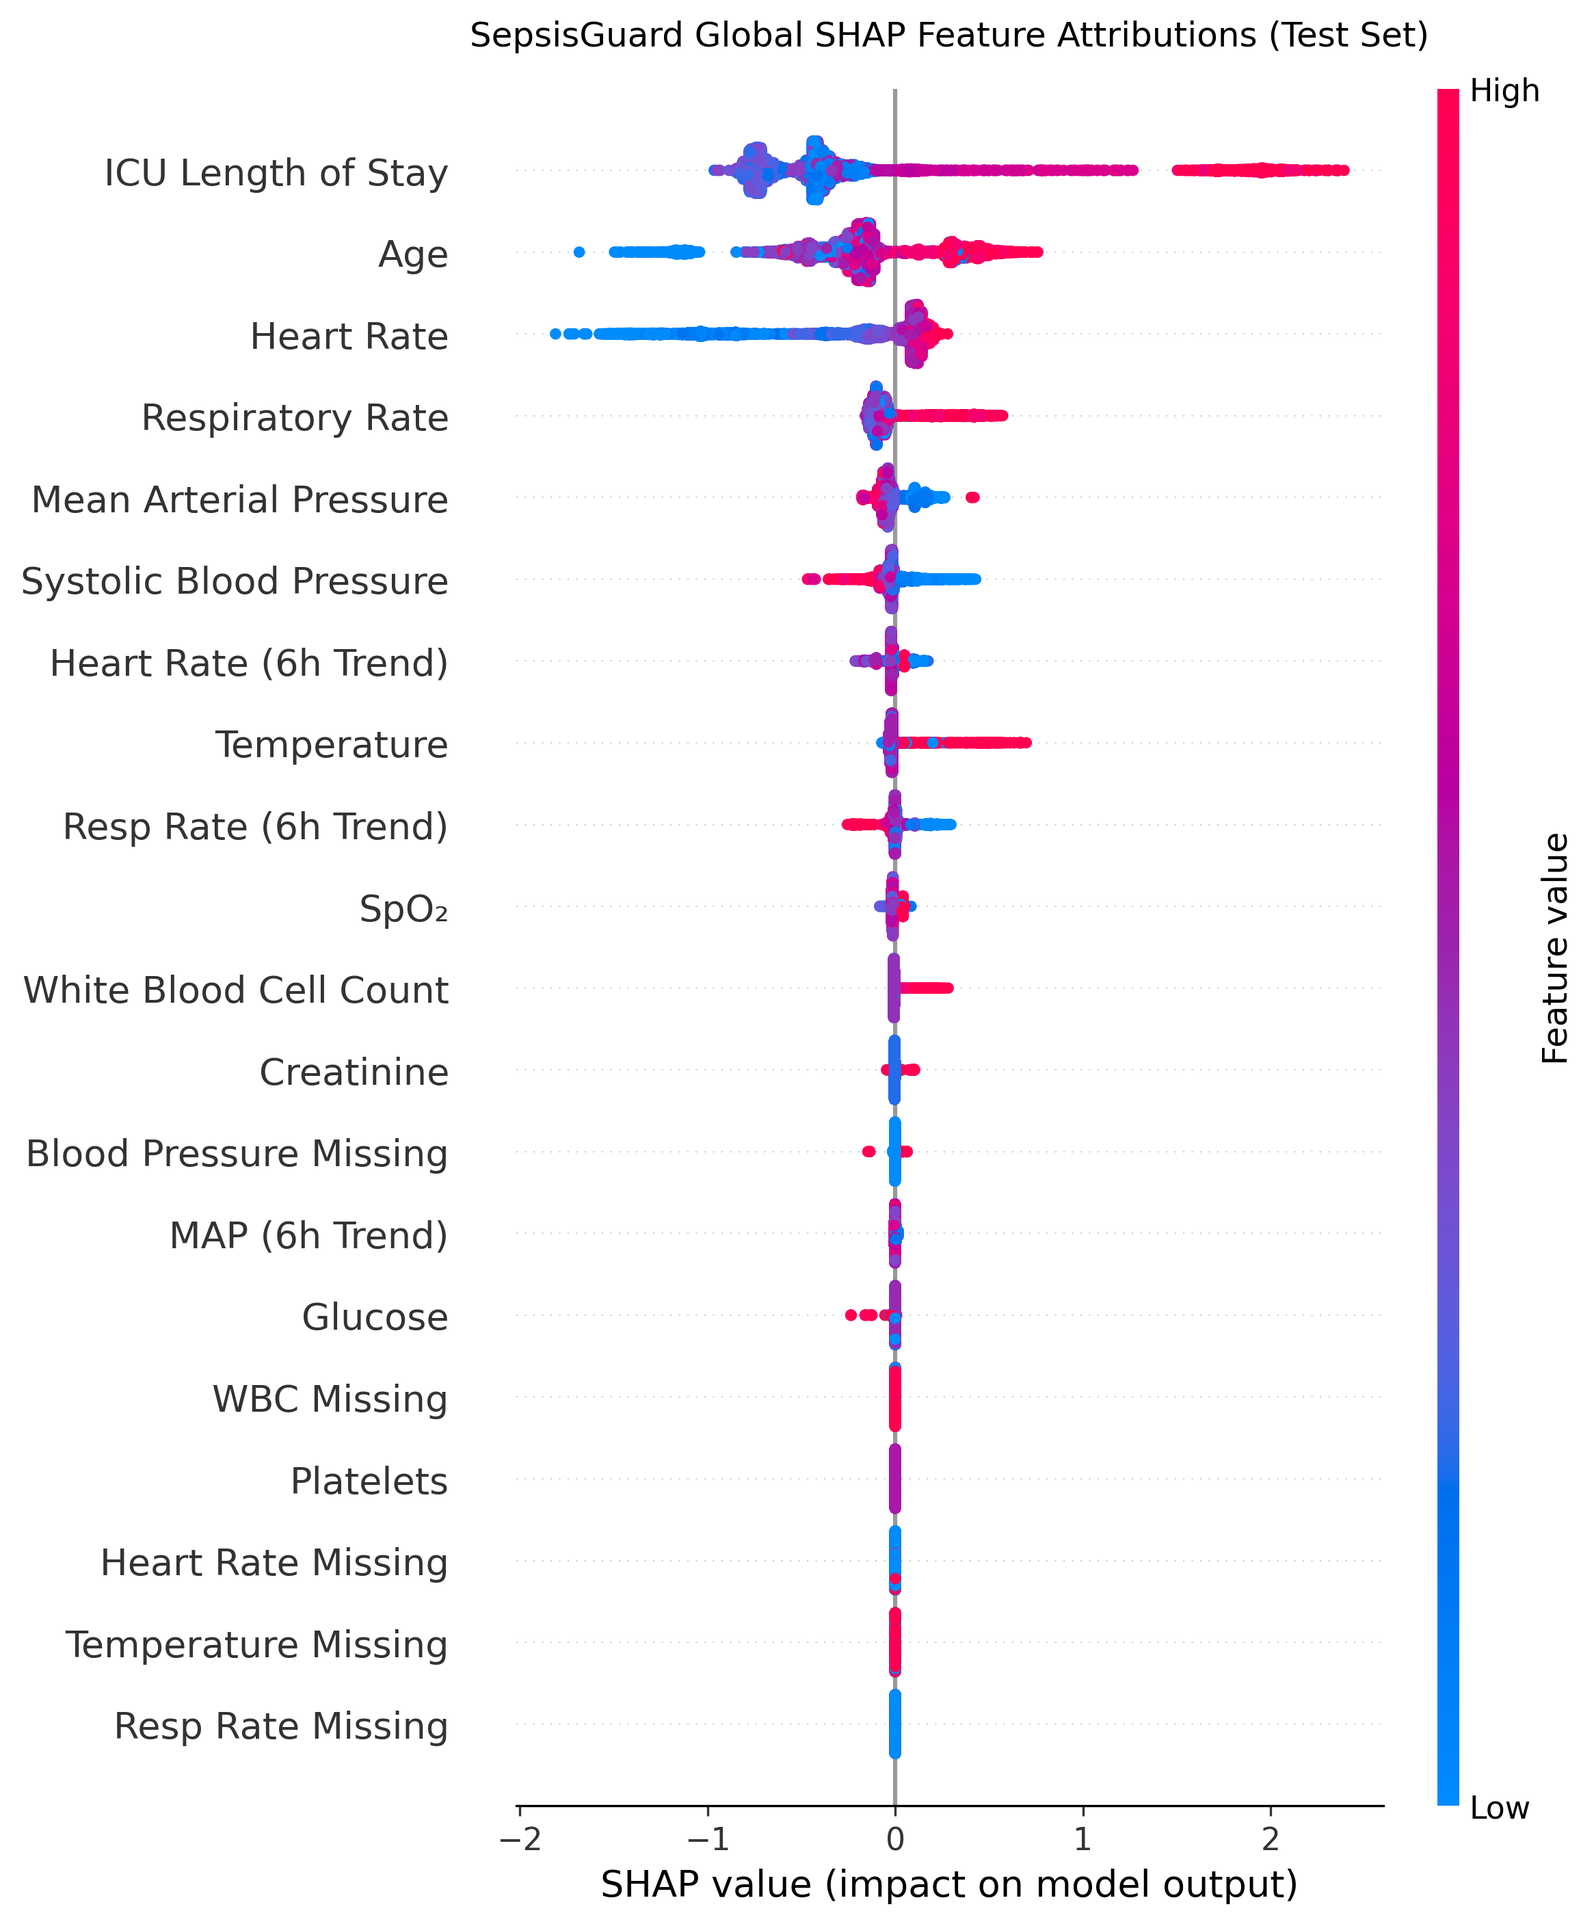
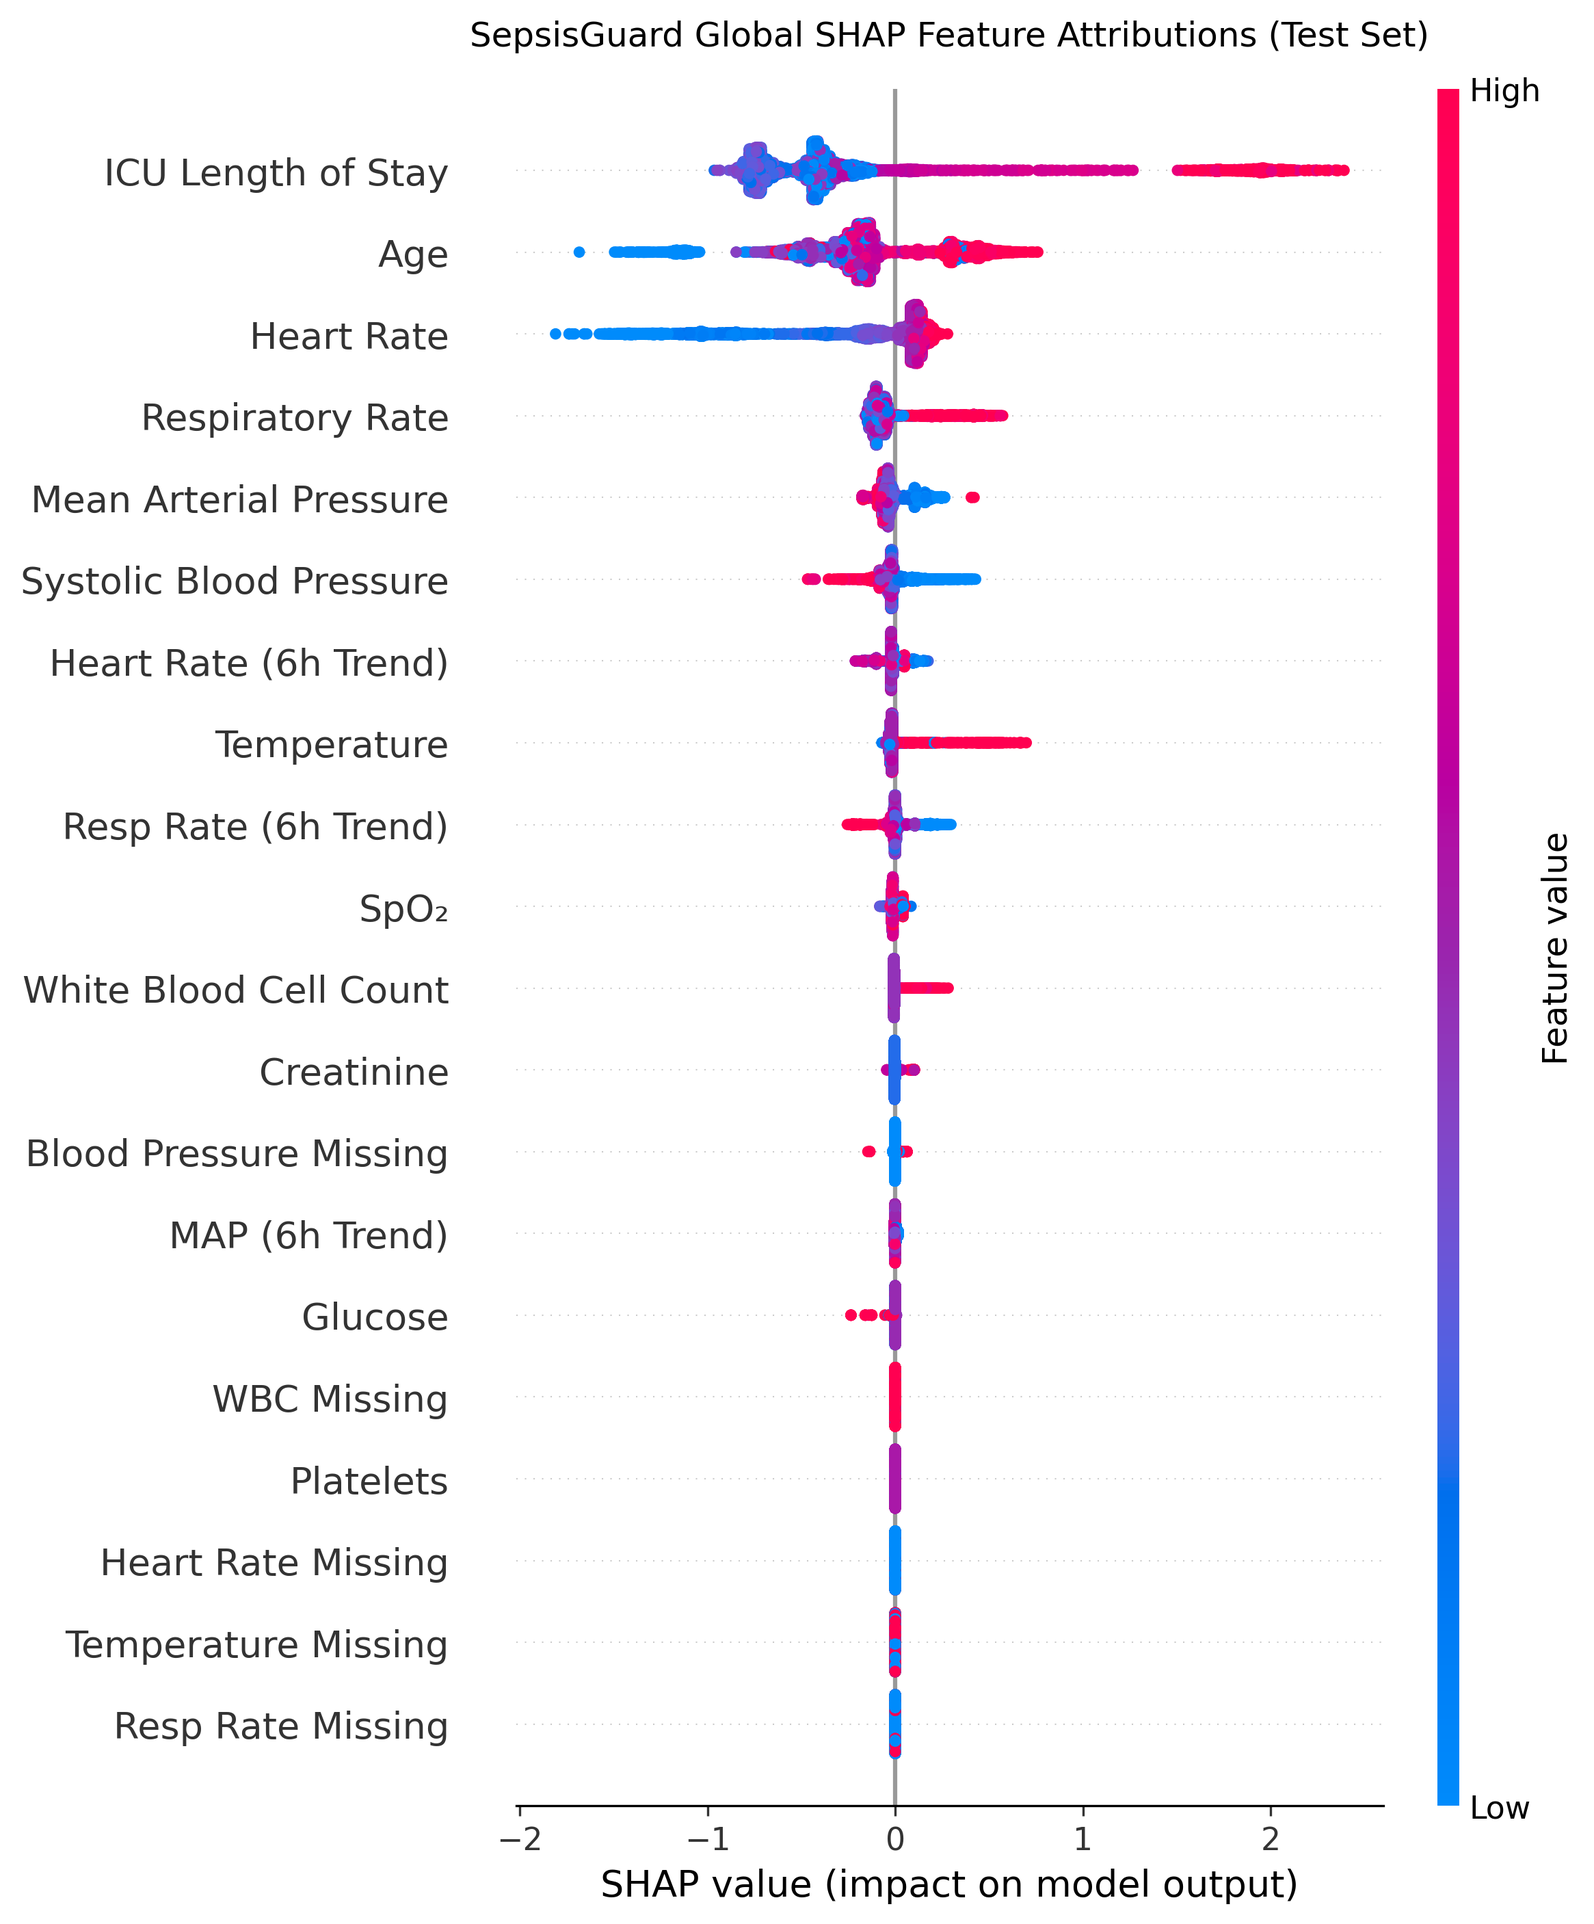
fix(ui): Enhance Risk Progression chart UI/UX with smooth gradients, formatted axes, initial trend history, and responsive canvas containers

diff --git a/frontend/dashboard.js b/frontend/dashboard.js
@@ -377,10 +377,14 @@ function updateModal(data) {
 
     // Trend update
     if (modalChart && data.trend?.length) {
-        modalChart.data.labels   = data.trend.map((_, i) => i + 1);
-        modalChart.data.datasets[0].data = data.trend;
+        const trend = data.trend;
+        modalChart.data.labels = trend.map((_, i) => {
+            const pastSec = (trend.length - 1 - i) * 2;
+            return pastSec === 0 ? 'NOW' : `-${pastSec}s`;
+        });
+        modalChart.data.datasets[0].data = trend;
         modalChart.data.datasets[0].borderColor = color;
-        modalChart.data.datasets[0].backgroundColor = color + '1a';
+        modalChart.data.datasets[0].pointBorderColor = color;
         modalChart.update('none');
     }
 }
@@ -391,23 +395,88 @@ function setModalVital(id, val, cls) {
 }
 
 function initModalTrend(pid) {
-    const ctx   = document.getElementById('modal-trend').getContext('2d');
-    const trend = patients[pid]?.trend || [];
+    const canvas = document.getElementById('modal-trend');
+    if (!canvas) return;
+    const ctx = canvas.getContext('2d');
+    const trend = (patients[pid]?.trend && patients[pid].trend.length > 0)
+        ? patients[pid].trend
+        : Array(20).fill(patients[pid]?.risk_score || 15);
     const color = patients[pid]?.risk_color || '#38bdf8';
+    
     if (modalChart) modalChart.destroy();
+
+    const gradient = ctx.createLinearGradient(0, 0, 0, 140);
+    gradient.addColorStop(0, color + '55');
+    gradient.addColorStop(0.5, color + '22');
+    gradient.addColorStop(1, color + '03');
+
+    const labels = trend.map((_, i) => {
+        const pastSec = (trend.length - 1 - i) * 2;
+        return pastSec === 0 ? 'NOW' : `-${pastSec}s`;
+    });
+
     modalChart = new Chart(ctx, {
         type: 'line',
         data: {
-            labels: trend.map((_, i) => i + 1),
-            datasets: [{ data: trend, borderColor: color, backgroundColor: color + '1a',
-                borderWidth: 2, fill: true, tension: 0.4, pointRadius: 0 }]
+            labels: labels,
+            datasets: [{
+                label: 'Sepsis Risk (%)',
+                data: trend,
+                borderColor: color,
+                borderWidth: 2.5,
+                backgroundColor: gradient,
+                fill: true,
+                tension: 0.35,
+                pointRadius: (context) => (context.dataIndex === context.dataset.data.length - 1 ? 5 : 2),
+                pointHoverRadius: 6,
+                pointBackgroundColor: (context) => (context.dataIndex === context.dataset.data.length - 1 ? '#ffffff' : color),
+                pointBorderColor: color,
+                pointBorderWidth: 1.5
+            }]
         },
-        options: { responsive: true, maintainAspectRatio: false, animation: false,
+        options: {
+            responsive: true,
+            maintainAspectRatio: false,
+            animation: false,
+            interaction: { mode: 'index', intersect: false },
             scales: {
-                y: { min: 0, max: 100, grid: { color: 'rgba(56,189,248,.05)' }, ticks: { color: '#64748b', font: { size: 9 } } },
-                x: { display: false }
+                y: {
+                    min: 0,
+                    max: 100,
+                    ticks: {
+                        stepSize: 25,
+                        color: '#94a3b8',
+                        font: { size: 9, family: 'monospace' },
+                        callback: (v) => v + '%'
+                    },
+                    grid: { color: 'rgba(255,255,255,0.06)', drawBorder: false }
+                },
+                x: {
+                    ticks: {
+                        color: '#64748b',
+                        font: { size: 9, family: 'monospace' },
+                        maxRotation: 0,
+                        autoSkip: true,
+                        maxTicksLimit: 7
+                    },
+                    grid: { display: false }
+                }
             },
-            plugins: { legend: { display: false } }
+            plugins: {
+                legend: { display: false },
+                tooltip: {
+                    backgroundColor: 'rgba(10,15,25,0.92)',
+                    titleColor: '#38bdf8',
+                    bodyColor: '#ffffff',
+                    borderColor: 'rgba(56,189,248,0.3)',
+                    borderWidth: 1,
+                    padding: 8,
+                    displayColors: false,
+                    callbacks: {
+                        label: (c) => `Risk Score: ${c.parsed.y.toFixed(1)}%`
+                    }
+                }
+            }
         }
     });
 }

diff --git a/frontend/patient.js b/frontend/patient.js
@@ -202,29 +202,91 @@ function renderContribs(shap_data) {
 
 // ─── Trend Chart ────────────────────────────────
 function updateTrend(trend, color) {
+    const canvas = document.getElementById('pt-trend');
+    if (!canvas) return;
+    const ctx = canvas.getContext('2d');
+    const colorHex = color || '#38bdf8';
+
+    const labels = trend.map((_, i) => {
+        const pastSec = (trend.length - 1 - i) * 2;
+        return pastSec === 0 ? 'NOW' : `-${pastSec}s`;
+    });
+
     if (!trendChart) {
-        const ctx = document.getElementById('pt-trend').getContext('2d');
+        const gradient = ctx.createLinearGradient(0, 0, 0, 150);
+        gradient.addColorStop(0, colorHex + '55');
+        gradient.addColorStop(0.5, colorHex + '22');
+        gradient.addColorStop(1, colorHex + '03');
+
         trendChart = new Chart(ctx, {
             type: 'line',
             data: {
-                labels: trend.map((_, i) => i + 1),
-                datasets: [{ data: trend, borderColor: color, backgroundColor: color + '1a',
-                    borderWidth: 2, fill: true, tension: 0.4, pointRadius: 0 }]
+                labels: labels,
+                datasets: [{
+                    label: 'Sepsis Risk (%)',
+                    data: trend,
+                    borderColor: colorHex,
+                    borderWidth: 2.5,
+                    backgroundColor: gradient,
+                    fill: true,
+                    tension: 0.35,
+                    pointRadius: (c) => (c.dataIndex === c.dataset.data.length - 1 ? 5 : 2),
+                    pointHoverRadius: 6,
+                    pointBackgroundColor: (c) => (c.dataIndex === c.dataset.data.length - 1 ? '#ffffff' : colorHex),
+                    pointBorderColor: colorHex,
+                    pointBorderWidth: 1.5
+                }]
             },
             options: {
-                responsive: true, maintainAspectRatio: false, animation: false,
+                responsive: true,
+                maintainAspectRatio: false,
+                animation: false,
+                interaction: { mode: 'index', intersect: false },
                 scales: {
-                    y: { min: 0, max: 100, grid: { color: 'rgba(56,189,248,.05)' }, ticks: { color: '#64748b', font: { size: 9 } } },
-                    x: { display: false }
+                    y: {
+                        min: 0,
+                        max: 100,
+                        ticks: {
+                            stepSize: 25,
+                            color: '#94a3b8',
+                            font: { size: 9, family: 'monospace' },
+                            callback: (v) => v + '%'
+                        },
+                        grid: { color: 'rgba(255,255,255,0.06)', drawBorder: false }
+                    },
+                    x: {
+                        ticks: {
+                            color: '#64748b',
+                            font: { size: 9, family: 'monospace' },
+                            maxRotation: 0,
+                            autoSkip: true,
+                            maxTicksLimit: 7
+                        },
+                        grid: { display: false }
+                    }
                 },
-                plugins: { legend: { display: false } }
+                plugins: {
+                    legend: { display: false },
+                    tooltip: {
+                        backgroundColor: 'rgba(10,15,25,0.92)',
+                        titleColor: '#38bdf8',
+                        bodyColor: '#ffffff',
+                        borderColor: 'rgba(56,189,248,0.3)',
+                        borderWidth: 1,
+                        padding: 8,
+                        displayColors: false,
+                        callbacks: {
+                            label: (c) => `Risk Score: ${c.parsed.y.toFixed(1)}%`
+                        }
+                    }
+                }
             }
         });
     } else {
-        trendChart.data.labels   = trend.map((_, i) => i + 1);
+        trendChart.data.labels = labels;
         trendChart.data.datasets[0].data = trend;
-        trendChart.data.datasets[0].borderColor = color;
-        trendChart.data.datasets[0].backgroundColor = color + '1a';
+        trendChart.data.datasets[0].borderColor = colorHex;
+        trendChart.data.datasets[0].pointBorderColor = colorHex;
         trendChart.update('none');
     }
 }

diff --git a/frontend/script.js b/frontend/script.js
@@ -289,32 +289,76 @@ function animateCounter(el, target) {
 }
 
 function initChart() {
-    const ctx = document.getElementById('trendChart').getContext('2d');
+    const canvas = document.getElementById('trendChart');
+    if (!canvas) return;
+    const ctx = canvas.getContext('2d');
+
+    const gradient = ctx.createLinearGradient(0, 0, 0, 150);
+    gradient.addColorStop(0, 'rgba(56, 189, 248, 0.35)');
+    gradient.addColorStop(0.5, 'rgba(56, 189, 248, 0.12)');
+    gradient.addColorStop(1, 'rgba(56, 189, 248, 0.01)');
+
     trendChart = new Chart(ctx, {
         type: 'line',
-        data: trendData,
+        data: {
+            labels: Array(10).fill('').map((_, i) => i === 9 ? 'NOW' : `-${(9 - i) * 2}s`),
+            datasets: [{
+                label: 'Sepsis Risk (%)',
+                data: Array(10).fill(15),
+                borderColor: '#38bdf8',
+                borderWidth: 2.5,
+                backgroundColor: gradient,
+                fill: true,
+                tension: 0.35,
+                pointRadius: (c) => (c.dataIndex === 9 ? 5 : 2),
+                pointHoverRadius: 6,
+                pointBackgroundColor: (c) => (c.dataIndex === 9 ? '#ffffff' : '#38bdf8'),
+                pointBorderColor: '#38bdf8',
+                pointBorderWidth: 1.5
+            }]
+        },
         options: {
             responsive: true,
             maintainAspectRatio: false,
+            interaction: { mode: 'index', intersect: false },
             scales: {
                 y: { 
                     beginAtZero: true, 
                     max: 100, 
-                    grid: { color: 'rgba(56, 189, 248, 0.05)' }, 
-                    ticks: { color: '#94a3b8', font: { size: 10 } }
+                    grid: { color: 'rgba(255, 255, 255, 0.06)', drawBorder: false }, 
+                    ticks: { color: '#94a3b8', font: { size: 9, family: 'monospace' }, callback: (v) => v + '%' }
                 },
-                x: { display: false }
+                x: {
+                    ticks: { color: '#64748b', font: { size: 9, family: 'monospace' } },
+                    grid: { display: false }
+                }
             },
-            plugins: { legend: { display: false } }
+            plugins: {
+                legend: { display: false },
+                tooltip: {
+                    backgroundColor: 'rgba(10,15,25,0.92)',
+                    titleColor: '#38bdf8',
+                    bodyColor: '#ffffff',
+                    borderColor: 'rgba(56,189,248,0.3)',
+                    borderWidth: 1,
+                    padding: 8,
+                    displayColors: false,
+                    callbacks: {
+                        label: (c) => `Risk Score: ${c.parsed.y.toFixed(1)}%`
+                    }
+                }
+            }
         }
     });
 }
 
 function updateTrend(newScore, color) {
+    if (!trendChart) return;
+    const colorHex = color || '#38bdf8';
     trendChart.data.datasets[0].data.shift();
     trendChart.data.datasets[0].data.push(newScore);
-    trendChart.data.datasets[0].borderColor = color;
-    trendChart.data.datasets[0].backgroundColor = color + "1a";
+    trendChart.data.datasets[0].borderColor = colorHex;
+    trendChart.data.datasets[0].pointBorderColor = colorHex;
     trendChart.update();
 }
 

diff --git a/frontend/dashboard.css b/frontend/dashboard.css
@@ -272,7 +272,10 @@ body::before{content:'';position:fixed;inset:0;
 .modal-synthesis{
     background:rgba(0,0,0,.25);border:1px solid var(--border);border-left:3px solid var(--accent);
     border-radius:var(--r-sm);padding:12px;font-size:.74rem;color:var(--text-1);line-height:1.6;font-style:italic}
-.modal-trend-canvas{width:100%;height:70px;display:block}
+.trend-chart-wrap{
+    position:relative;width:100%;height:140px;background:rgba(0,0,0,.35);
+    border:1px solid var(--border);border-radius:8px;padding:8px 12px 6px 6px;margin-top:6px}
+.modal-trend-canvas{width:100% !important;height:100% !important;display:block}
 .triggers-wrap{display:flex;flex-wrap:wrap;gap:5px}
 .trigger-tag{font-size:.58rem;font-family:var(--mono);padding:2px 9px;border-radius:20px;
     background:var(--danger-dim);border:1px solid rgba(239,68,68,.25);color:#fca5a5}

diff --git a/frontend/patient.html b/frontend/patient.html
@@ -216,8 +216,10 @@ body{overflow-y:auto}
 
         <!-- Trend Chart -->
         <div class="pt-panel">
-            <div class="pt-panel-title"><span></span>Risk Progression (last 40 readings)</div>
-            <canvas id="pt-trend" style="width:100%;height:80px;display:block"></canvas>
+            <div class="pt-panel-title"><span></span>Risk Progression (Last 40 Telemetry Readings)</div>
+            <div class="trend-chart-wrap" style="height:150px">
+                <canvas id="pt-trend" style="width:100%;height:100%;display:block"></canvas>
+            </div>
         </div>
 
         <!-- Timeline -->

diff --git a/frontend/dashboard.html b/frontend/dashboard.html
@@ -143,8 +143,10 @@
         </div>
     </div>
     <div>
-        <div class="msec">Risk Progression</div>
-        <canvas class="modal-trend-canvas" id="modal-trend"></canvas>
+        <div class="msec">Risk Progression (Last 40 Telemetry Readings)</div>
+        <div class="trend-chart-wrap">
+            <canvas class="modal-trend-canvas" id="modal-trend"></canvas>
+        </div>
     </div>
     <div>
         <div class="msec">Clinical Triggers</div>

diff --git a/backend/app.py b/backend/app.py
@@ -4,7 +4,13 @@ SepsisGuard AI - Central Hospital Telemetry Server v3.0 (Phase 10 / Phase 12 Arc
 Lightweight Application Factory & Service Entry Point with Structured Logging.
 """
 
+import os
 import sys
+
+PROJECT_ROOT = os.path.abspath(os.path.join(os.path.dirname(__file__), ".."))
+if PROJECT_ROOT not in sys.path:
+    sys.path.insert(0, PROJECT_ROOT)
+
 import warnings
 warnings.filterwarnings('ignore')
 
@@ -72,4 +78,4 @@ if __name__ == '__main__':
     logger.info("  SepsisGuard AI v3.0 - ICU Intelligence Ecosystem")
     logger.info("  http://localhost:5000")
     logger.info("=" * 55)
-    socketio.run(app, host='0.0.0.0', port=5000, debug=False)
+    socketio.run(app, host='0.0.0.0', port=5000, debug=False, allow_unsafe_werkzeug=True)

diff --git a/backend/services/telemetry.py b/backend/services/telemetry.py
@@ -52,7 +52,7 @@ def _init_state(pid):
         "contributions":     {"Heart Rate": 20, "Blood Pressure": 20, "Temperature": 20, "SpO2": 20, "Resp Rate": 20},
         "ai_synthesis":      "Initializing clinical AI engine...",
         "alert_level":       "CRITICAL" if risk > 70 else ("WARNING" if risk > 30 else "STABLE"),
-        "trend":             [],
+        "trend":             [round(max(0, min(100, float(risk) + math.sin(i * 0.3) * 3 + random.gauss(0, 1.5))), 1) for i in range(20)],
         "anomaly":           False,
         "deteriorating":     False,
         "last_updated":      datetime.now().isoformat(),
